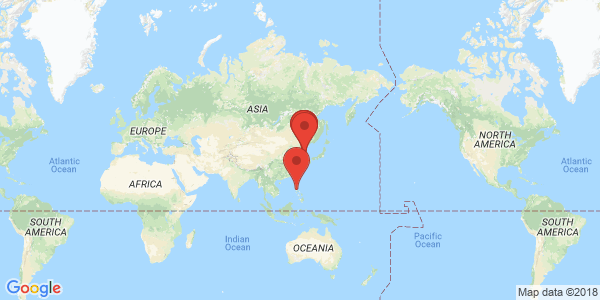
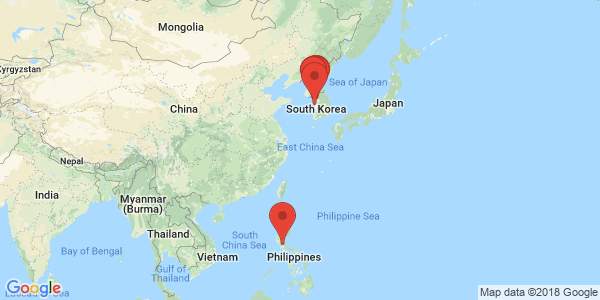
modify data

diff --git a/data.py b/data.py
@@ -74,7 +74,7 @@ class Print:
                 continue
             maker_list=maker_list+str(GPS.GPSLatitude_value())+','+str(GPS.GPSLongitude_value())+'|'
 
-        url = "https://maps.googleapis.com/maps/api/staticmap?zoom=1&size=600x300&maptype=roadmap&markers=color:red|"+maker_list
+        url = "https://maps.googleapis.com/maps/api/staticmap?size=600x300&maptype=roadmap&markers=color:red|"+maker_list
         urllib.urlretrieve(url, 'result\\google_maps_result.png', context = ssl._create_unverified_context())
 
 class Data:
